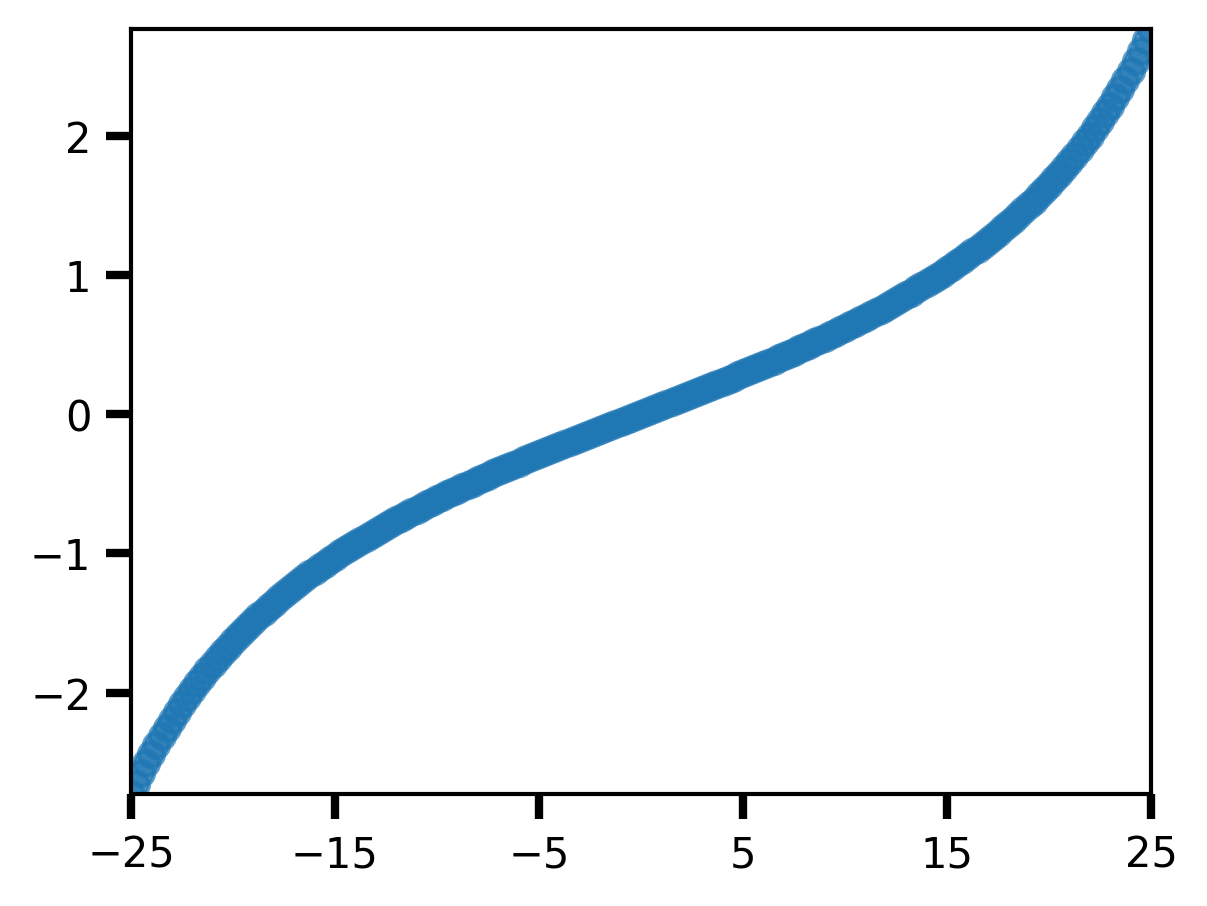
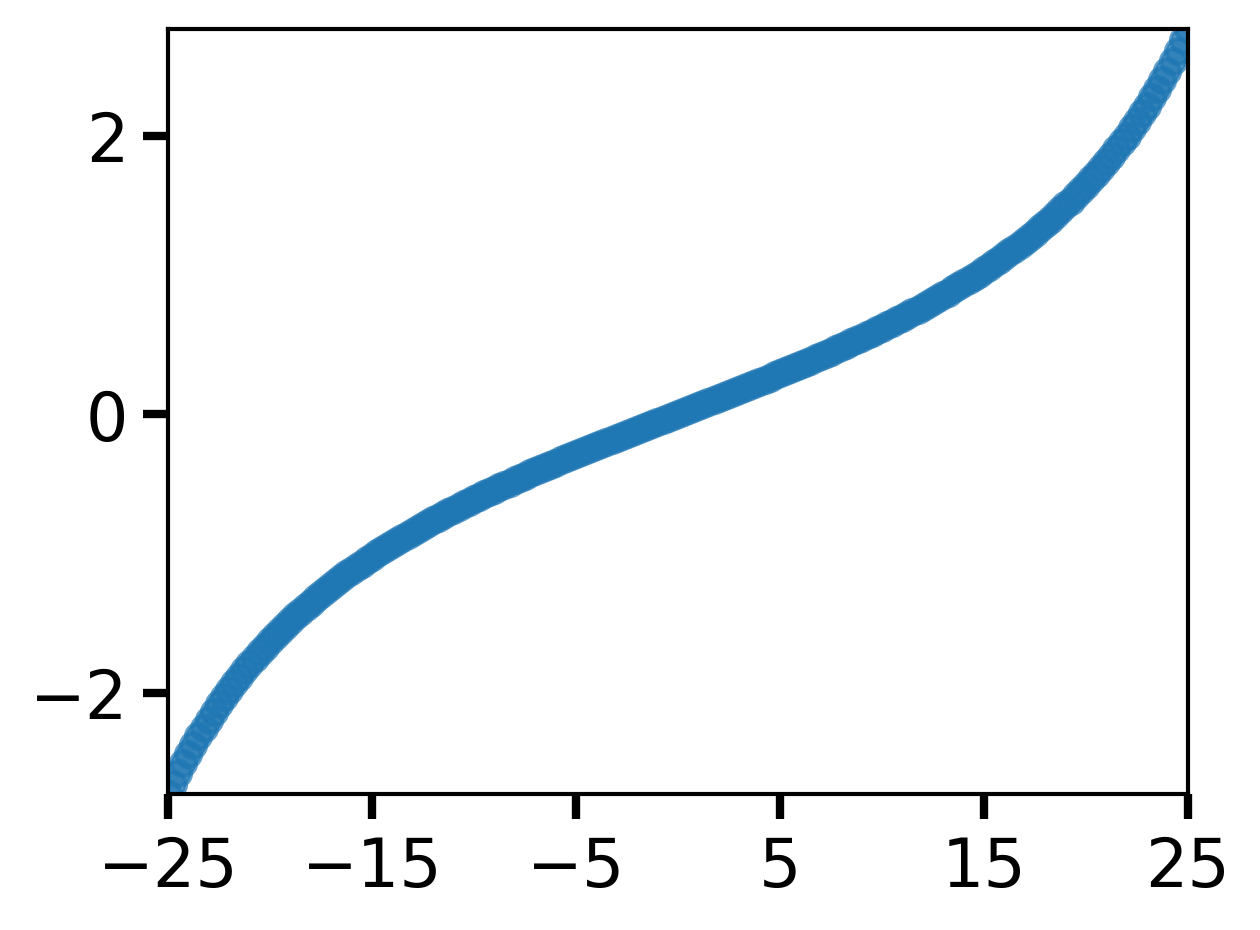
increased tick font size

Changed region(s): [[0.0307, 0.0309, 0.9809, 0.9581]]

diff --git a/E_perp_vs_par_Field_transverse_disp.py b/E_perp_vs_par_Field_transverse_disp.py
@@ -119,7 +119,7 @@ def main():
     XTICKS = [-25, -15, -5, 5,  15,  25]
     ax.set_xticks(XTICKS)
     # --- Increase tick line width and tick label size ---
-    ax.tick_params(axis='both', which='both', width=2, length=6, labelsize=10)
+    ax.tick_params(axis='both', which='both', width=2, length=6, labelsize=16)
 
     # --- Add black border (axes spines) ---
     for spine in ax.spines.values():

diff --git a/E_perp_vs_par_Field.py b/E_perp_vs_par_Field.py
@@ -169,7 +169,7 @@ def main():
     YTICKS = [-3, -2, -2, 0, 1, 2, 3]
     ax.set_xticks(XTICKS)
     # --- Increase tick line width and tick label size ---
-    ax.tick_params(axis='both', which='both', width=2, length=6, labelsize=10)
+    ax.tick_params(axis='both', which='both', width=2, length=6, labelsize=16)
 
     # --- Add black border (axes spines) ---
     for spine in ax.spines.values():
